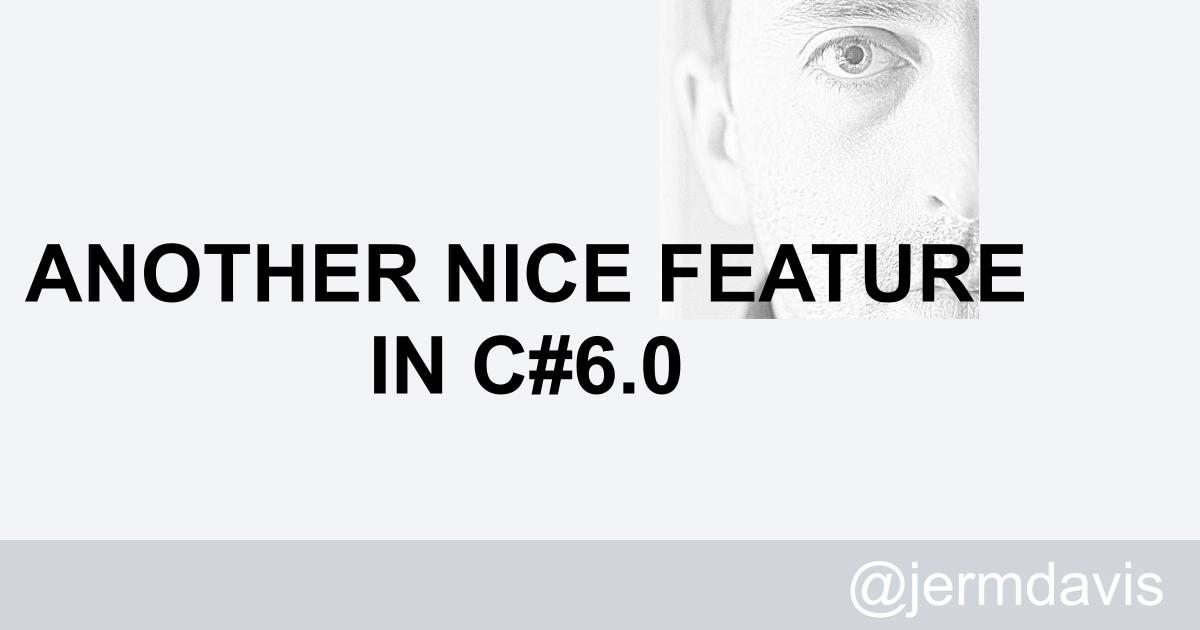
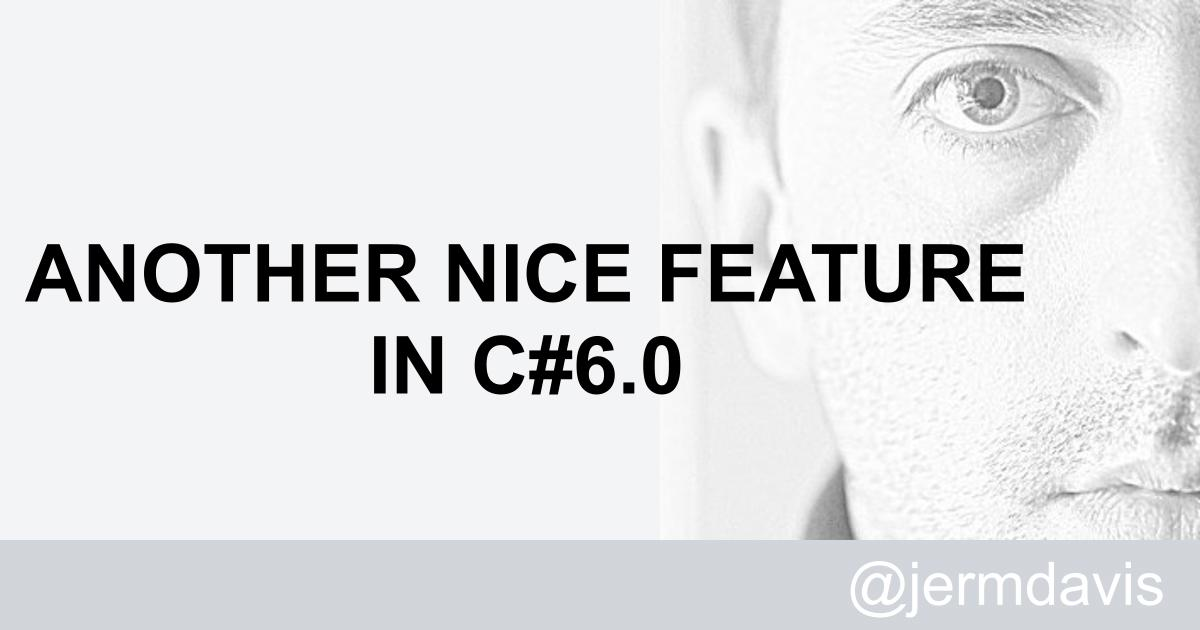
Fix broken social images

diff --git a/index.html b/index.html
@@ -30,7 +30,7 @@
 		<link href="/scss/site-theme.css" rel="stylesheet">
 		<script src="/vendor/Cookies/cookies.min.js" defer=""></script>
 		
-		<!-- 12/09/2023 20:23:42 -->
+		<!-- 12/09/2023 20:51:49 -->
 	</head>
 	<body class="max-w-7xl mx-auto text-black" id="top">
 		<div class="relative bg-white" x-data="{ open: false }">
